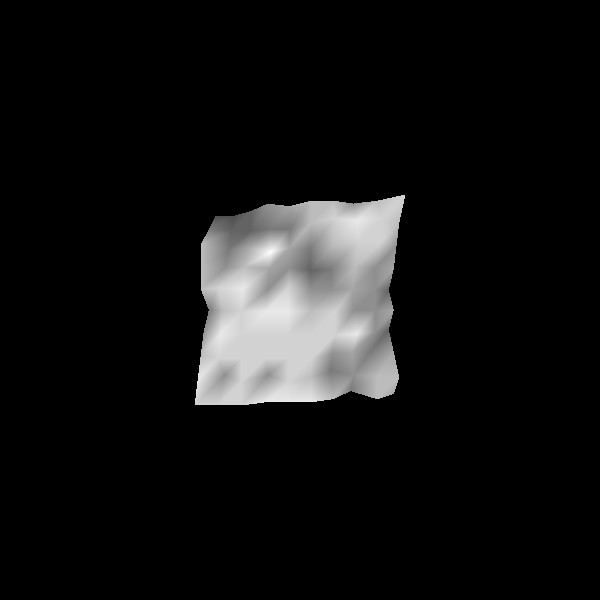
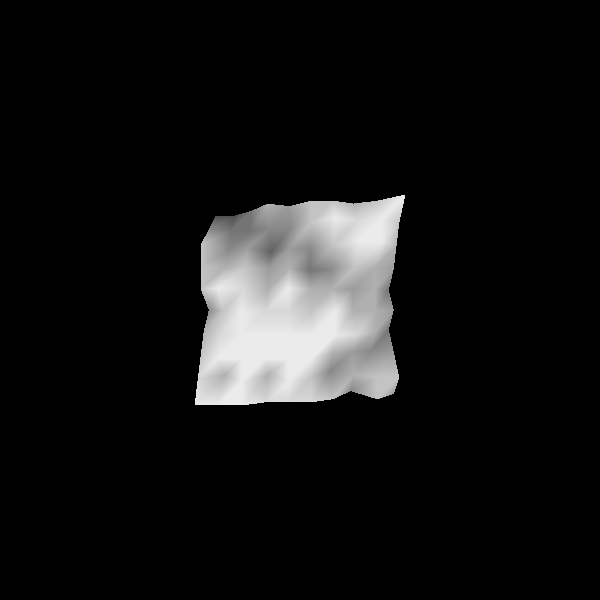
yooo

diff --git a/lab12/part2.py b/lab12/part2.py
@@ -41,8 +41,21 @@ class Scene:
                 glRotatef(x[0], x[1], x[2], x[3])
             drawMesh(self.map)
 
-        def calcColor(colors):
-            return 0.3+(0.7/self.maxvalue)*(len(colors))
+        def colorDict(map):
+            flatMap = [item for sublist in map for item in sublist]
+            flatMapUnique = list(set(flatMap))
+            flatMapUnique.sort()
+            min = flatMapUnique[0]
+            max = flatMapUnique[-1]
+            inc = 0.7/len(flatMapUnique)
+            colors = {}
+
+            i = 0
+            for x in flatMapUnique:
+                colors[x] = (0.3 + inc*i)
+                i+=1
+
+            return colors
 
         def drawMesh(map):
             rows = len(map)
@@ -50,29 +63,21 @@ class Scene:
 
             tlc = (-(cols-1)/2, (rows-1)/2)
 
-            colors = {}
+            colors = colorDict(map)
 
             for i in range(rows-1):
                 for j in range(cols-1):
                     # top-left (tl) - (i, j)
                     tl = map[i][j]
-                    if not tl in colors.keys():
-                        colors[tl] = calcColor(colors)
 
                     # top-right (tr) - (i, j+1)
                     tr = map[i][j+1]
-                    if not tr in colors.keys():
-                        colors[tr] = calcColor(colors)
 
                     # bottom-right (br) - (i+1, j+1)
                     br = map[i+1][j+1]
-                    if not br in colors.keys():
-                        colors[br] = calcColor(colors)
 
                     # bottom-left (bl) - (i+1, j)
                     bl = map[i+1][j]
-                    if not bl in colors.keys():
-                        colors[bl] = calcColor(colors)
 
                     #tl, tr, bl
                     glBegin(GL_TRIANGLES)
@@ -157,5 +162,5 @@ class Scene:
             
 if __name__ == '__main__':
     map = map.get_matrix(seed = 1117, rows = 10, cols = 10, maxval = 8)
-    myGame = Scene(caption="Koutrakos - Lab 12 - Part 1", map=map, maxvalue=8)
+    myGame = Scene(caption="Koutrakos - Lab 12 - Part 2", map=map, maxvalue=8)
     pyglet.app.run()

diff --git a/lab12/part4.py b/lab12/part4.py
@@ -45,8 +45,6 @@ class Scene:
             flatMap = [item for sublist in map for item in sublist]
             flatMapUnique = list(set(flatMap))
             flatMapUnique.sort()
-            min = flatMapUnique[0]
-            max = flatMapUnique[-1]
             inc = 0.7/len(flatMapUnique)
             colors = {}
 
@@ -159,32 +157,25 @@ class Scene:
 
     def calcU(self, p1, p2):
         return (np.cross(p1, p2) / (np.linalg.norm(p2) * np.linalg.norm(p1)))
-    
-#this function was generated by Gemini, the prompt and output is in ai.txt
-def sphere(radius, increment):
-    """
-    Creates a 2D array representing the height of a sphere at each point, without using numpy.meshgrid.
 
-    Args:
-        radius (float): The radius of the sphere.
-        increment (float): The step size for the grid.
+#this was generated by Gemini and is the second prompt in ai.txt
+def sombrero(size):
+    center = (size // 2, size // 2)
 
-    Returns:
-        numpy.ndarray: A 2D array representing the height of the sphere.
-    """
-
-    size = int(2 * radius / increment) + 1
-    height_map = [[0.0 for _ in range(size)] for _ in range(size)] #Create a 2D list instead of numpy array
+    height_map = [[0.0 for _ in range(size)] for _ in range(size)]
 
     for i in range(size):
+        scale = 3
         for j in range(size):
-            x = -radius + i * increment
-            y = -radius + j * increment
-            distance_from_center = np.sqrt(x**2 + y**2)
-            height_map[j][i] = np.sqrt(np.maximum(0, radius**2 - distance_from_center**2))
-
+            x = i
+            y = j
+            r = np.sqrt((x - center[0])**2 + (y - center[1])**2)
+            if r == 0:
+                 height_map[j][i] = scale
+            else:
+                height_map[j][i] = scale*(np.sin(r) / r)
     return height_map
             
 if __name__ == '__main__':
-    myGame = Scene(caption="Koutrakos - Lab 12 - Part 3", map=sphere(20, 1), maxvalue=20/1)
+    myGame = Scene(caption="Koutrakos - Lab 12 - Part 4", map=sombrero(50), maxvalue=20)
     pyglet.app.run()
